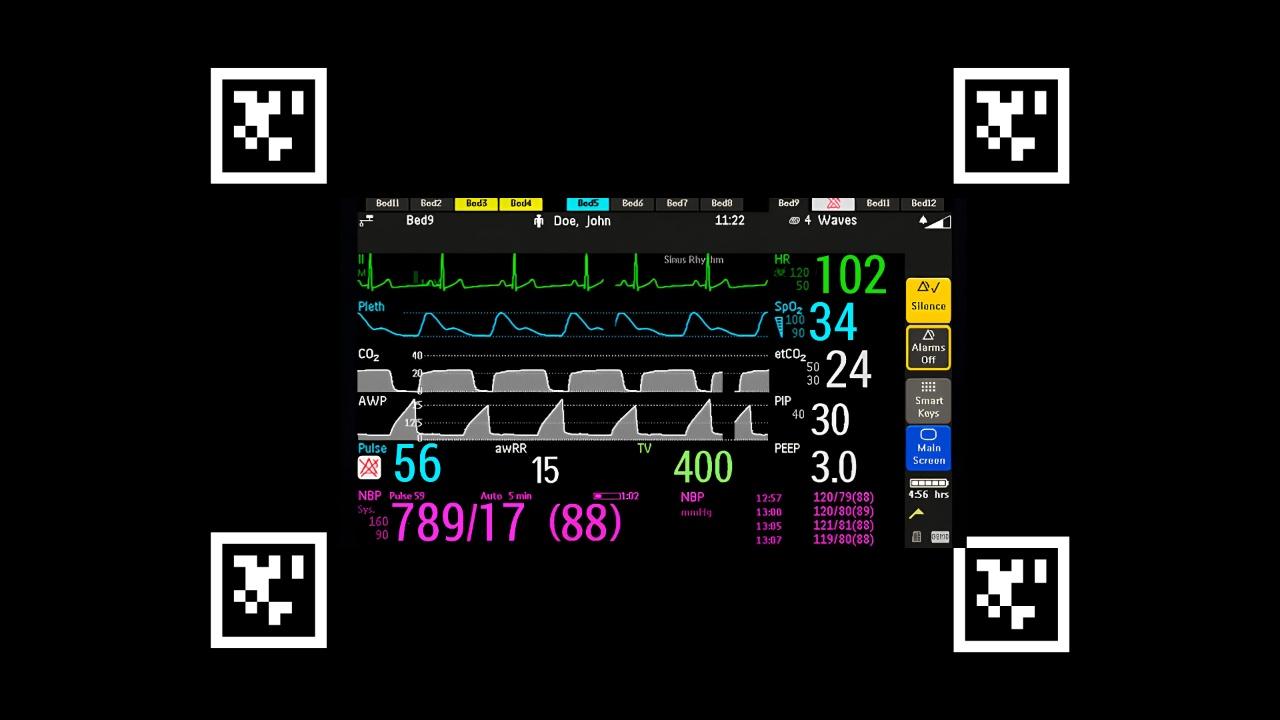
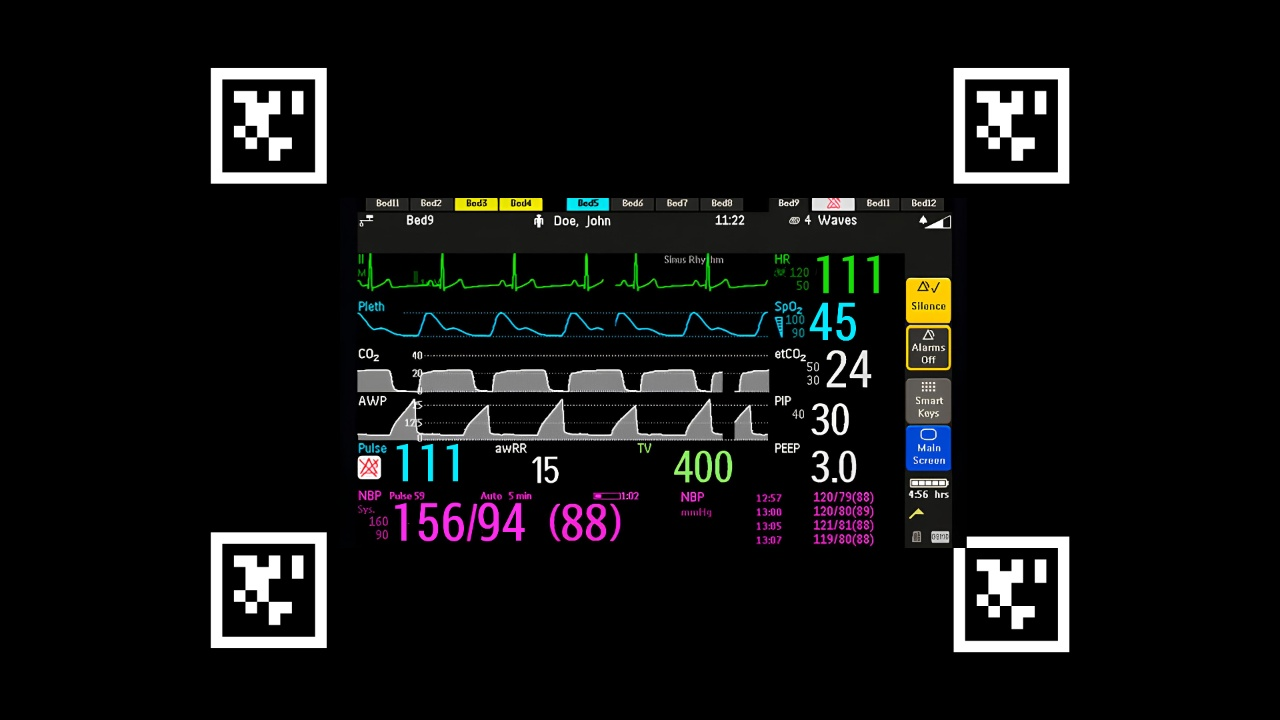
add keras

Changed region(s): [[0.625, 0.3361, 0.6875, 0.4889], [0.3125, 0.6722, 0.4062, 0.7639], [0.3125, 0.6111, 0.375, 0.6722]]

diff --git a/merge_all.py b/merge_all.py
@@ -1,0 +1,229 @@
+import cv2
+import numpy as np
+from pupil_apriltags import Detector
+import matplotlib.pyplot as plt
+import easyocr
+from paddleocr import PaddleOCR
+import keras_ocr
+from collections import Counter
+
+# Initialize AprilTag detector
+at_detector = Detector(
+    families="tag36h11",
+    nthreads=4,
+    quad_decimate=1.0,
+    quad_sigma=0.0,
+    refine_edges=1,
+    decode_sharpening=0.25,
+    debug=0
+)
+
+# Initialize OCR readers
+easy_reader = easyocr.Reader(['en'], gpu=False)
+pad_ocr = PaddleOCR(use_angle_cls=True, lang='en', use_gpu=False)
+keras_pipeline = keras_ocr.pipeline.Pipeline()
+
+# Open webcam
+cap = cv2.VideoCapture(0)
+if not cap.isOpened():
+    print("Error: Could not open camera.")
+    exit()
+
+cap.set(cv2.CAP_PROP_AUTO_EXPOSURE, 0.75)
+
+# Create matplotlib window
+plt.ion()
+fig = plt.figure(figsize=(20, 10))
+ax1 = plt.subplot2grid((2, 4), (0, 0), colspan=2)
+ax2 = plt.subplot2grid((2, 4), (0, 2), colspan=2)
+ax3 = plt.subplot2grid((2, 4), (1, 0))
+ax4 = plt.subplot2grid((2, 4), (1, 1))
+ax5 = plt.subplot2grid((2, 4), (1, 2))
+ax6 = plt.subplot2grid((2, 4), (1, 3))
+axes = [ax3, ax4, ax5, ax6]
+
+def sort_corners(corners):
+    center = np.mean(corners, axis=0)
+    angles = np.arctan2(corners[:, 1] - center[1], corners[:, 0] - center[0])
+    sorted_indices = np.argsort(angles)
+    return corners[sorted_indices]
+
+def process_roi(image, x1, y1, x2, y2):
+    roi = image[y1:y2, x1:x2]
+    roi_resized = cv2.resize(roi, (250, 125))
+    gray = cv2.cvtColor(roi_resized, cv2.COLOR_BGR2GRAY)
+    clahe = cv2.createCLAHE(clipLimit=2.0, tileGridSize=(8, 8))
+    contrast = clahe.apply(gray)
+    threshold = cv2.threshold(contrast, 0, 255, cv2.THRESH_BINARY | cv2.THRESH_OTSU)[1]
+    
+    # EasyOCR
+    try:
+        easy_result = easy_reader.readtext(threshold, detail=0)
+        easy_text = "".join([char for char in " ".join(easy_result) if char.isdigit()]).strip()
+    except Exception as e:
+        print(f"EasyOCR error: {e}")
+        easy_text = ""
+
+    # PaddleOCR
+    try:
+        pad_result = pad_ocr.ocr(roi_resized, cls=True)
+        pad_text = "".join([char for char in pad_result[0][0][1][0] if char.isdigit()]) if pad_result[0] else ""
+    except Exception as e:
+        print(f"PaddleOCR error: {e}")
+        pad_text = ""
+        
+    # Keras-OCR
+    try:
+        keras_result = keras_pipeline.recognize([roi_resized])
+        keras_text = "".join([char for char in keras_result[0][0][0] if char.isdigit()])
+    except Exception as e:
+        print(f"Keras-OCR error: {e}")
+        keras_text = ""
+    
+    return threshold, easy_text, pad_text, keras_text
+
+# Updated regions of interest for vital signs
+roi_positions = [
+    {'pulse': [1400, 276, 1610, 400]},
+    {'spo2': [1390, 400, 1540, 504]},
+    {'Dia': [318, 869, 518, 971]},
+    {'Sys': [545, 865, 688, 970]}
+]
+
+# Initialize dictionaries to store vital signs
+vital_signs_history = {key: {'easy': [], 'paddle': [], 'keras': []} for item in roi_positions for key in item.keys()}
+
+while True:
+    ret, frame = cap.read()
+    if not ret:
+        print("Cannot read from webcam")
+        break
+
+    gray = cv2.cvtColor(frame, cv2.COLOR_BGR2GRAY)
+    tags = at_detector.detect(gray)
+
+    pts_src_temp = []
+    for tag in tags:
+        if tag.tag_id == 0:
+            corners = tag.corners
+            for i in range(4):
+                pt1 = (int(corners[i][0]), int(corners[i][1]))
+                pt2 = (int(corners[(i + 1) % 4][0]), int(corners[(i + 1) % 4][1]))
+                cv2.line(frame, pt1, pt2, (0, 255, 0), 2)
+            cv2.putText(frame, f'ID: {tag.tag_id}', (int(corners[0][0]), int(corners[0][1]) - 10),
+                        cv2.FONT_HERSHEY_SIMPLEX, 1, (0, 255, 0), 2)
+            center = np.mean(corners, axis=0)
+            pts_src_temp.append(center)
+
+    # Clear previous output
+    for ax in [ax1, ax2, ax3, ax4, ax5, ax6]:
+        ax.clear()
+
+    # Display original frame
+    ax1.imshow(cv2.cvtColor(frame, cv2.COLOR_BGR2RGB))
+    ax1.set_title('Original Frame')
+    ax1.axis('off')
+
+    if len(pts_src_temp) >= 4:
+        pts_src_array = np.array(pts_src_temp[:4], dtype='float32')
+        pts_src_array = sort_corners(pts_src_array)
+        pts_dst = np.array([
+            [0, 0],
+            [1920 - 1, 0],
+            [1920 - 1, 1080 - 1],
+            [0, 1080 - 1]
+        ], dtype='float32')
+
+        matrix = cv2.getPerspectiveTransform(pts_src_array, pts_dst)
+        warped_image = cv2.warpPerspective(frame, matrix, (1920, 1080))
+
+        # Process ROIs and detect vital signs
+        vital_signs = {}
+        for i, item in enumerate(roi_positions):
+            for key, value in item.items():
+                roi_image, easy_text, pad_text, keras_text = process_roi(warped_image, value[0], value[1], value[2], value[3])
+                vital_signs[key] = f"Easy: {easy_text}, Paddle: {pad_text}, Keras: {keras_text}"
+                
+                # Store detected values
+                if len(vital_signs_history[key]['easy']) < 20:
+                    vital_signs_history[key]['easy'].append(easy_text)
+                if len(vital_signs_history[key]['paddle']) < 20:
+                    vital_signs_history[key]['paddle'].append(pad_text)
+                if len(vital_signs_history[key]['keras']) < 20:
+                    vital_signs_history[key]['keras'].append(keras_text)
+                
+                # Display ROI
+                axes[i].imshow(roi_image, cmap='gray')
+                axes[i].set_title(f'{key}: E:{easy_text} P:{pad_text} K:{keras_text} ({len(vital_signs_history[key]["easy"])}/20)')
+                axes[i].axis('off')
+
+        # Display warped image
+        ax2.imshow(cv2.cvtColor(warped_image, cv2.COLOR_BGR2RGB))
+        ax2.set_title('Warped Image')
+        ax2.axis('off')
+
+        # Display detected vital signs as text
+        plt.figtext(0.5, 0.02, f"Detected Vital Signs: {vital_signs}", ha="center", fontsize=12,
+                    bbox={"facecolor":"white", "alpha":0.5, "pad":5})
+    else:
+        ax2.text(0.5, 0.5, 'Waiting for 4 AprilTags', ha='center', va='center', transform=ax2.transAxes)
+        ax2.axis('off')
+        for ax in axes:
+            ax.text(0.5, 0.5, 'No ROI', ha='center', va='center', transform=ax.transAxes)
+            ax.axis('off')
+
+    plt.tight_layout()
+    plt.draw()
+    plt.pause(0.001)
+
+    # Check if all vital signs have 20 readings from all OCR systems
+    if all(len(values['easy']) >= 20 and len(values['paddle']) >= 20 and len(values['keras']) >= 20 for values in vital_signs_history.values()):
+        break
+
+    if plt.waitforbuttonpress(0.001):
+        break
+
+cap.release()
+plt.close(fig)
+
+# Calculate and display results for each vital sign
+print("\nFinal Results:")
+for key, values in vital_signs_history.items():
+    combined_values = values['easy'] + values['paddle'] + values['keras']
+    if combined_values:
+        mode = Counter(combined_values).most_common(1)[0][0]
+        print(f"\n{key}:")
+        print(f"Mode (considered as correct value): {mode}")
+        print("All 60 readings:")
+        print("EasyOCR readings:", values['easy'])
+        print("PaddleOCR readings:", values['paddle'])
+        print("Keras-OCR readings:", values['keras'])
+        
+        # Calculate accuracy
+        easy_correct = sum(1 for v in values['easy'] if v == mode)
+        paddle_correct = sum(1 for v in values['paddle'] if v == mode)
+        keras_correct = sum(1 for v in values['keras'] if v == mode)
+        
+        easy_accuracy = (easy_correct / 20) * 100
+        paddle_accuracy = (paddle_correct / 20) * 100
+        keras_accuracy = (keras_correct / 20) * 100
+        
+        print(f"EasyOCR Accuracy: {easy_accuracy:.2f}%")
+        print(f"PaddleOCR Accuracy: {paddle_accuracy:.2f}%")
+        print(f"Keras-OCR Accuracy: {keras_accuracy:.2f}%")
+    else:
+        print(f"{key}: No readings")
+
+# Calculate overall accuracy
+total_easy_correct = sum(sum(1 for v in values['easy'] if v == Counter(values['easy'] + values['paddle'] + values['keras']).most_common(1)[0][0]) for values in vital_signs_history.values())
+total_paddle_correct = sum(sum(1 for v in values['paddle'] if v == Counter(values['easy'] + values['paddle'] + values['keras']).most_common(1)[0][0]) for values in vital_signs_history.values())
+total_keras_correct = sum(sum(1 for v in values['keras'] if v == Counter(values['easy'] + values['paddle'] + values['keras']).most_common(1)[0][0]) for values in vital_signs_history.values())
+
+total_easy_accuracy = (total_easy_correct / (20 * len(vital_signs_history))) * 100
+total_paddle_accuracy = (total_paddle_correct / (20 * len(vital_signs_history))) * 100
+total_keras_accuracy = (total_keras_correct / (20 * len(vital_signs_history))) * 100
+
+print("\nOverall Accuracy:")
+print(f"EasyOCR: {total_easy_accuracy:.2f}%")
+print(f"PaddleOCR: {total_paddle_accuracy:.2f}%")
+print(f"Keras-OCR: {total_keras_accuracy:.2f}%")

diff --git a/addnum.py b/addnum.py
@@ -53,7 +53,7 @@ def add_numbers_to_image(input_image_path, numbers, positions, font_path, font_s
 
 # ตัวอย่างการใช้งาน
 input_image = "mx400_clear.jpg"
-numbers_to_add = [102, 34, 56, 789, 17]  # ตัวเลขตัวอย่าง ปรับตามต้องการ
+numbers_to_add = [111, 45, 111, 156, 94]  # ตัวเลขตัวอย่าง ปรับตามต้องการ
 positions = [(1545, 150), (1530, 305), (170, 770), (165, 965), (445, 965)]  # ตำแหน่งตัวอย่าง ปรับตามต้องการ
 font_sizes = [175, 175, 175, 175, 175]  # ขนาดฟอนต์ตัวอย่าง ปรับตามต้องการ
 text_colors = [(24, 221, 9), (3, 235, 254), (3, 235, 254), (252, 44, 237), (252, 44, 237)]  # สีตัวอย่าง ปรับตามต้องการ (สีแดง, สีเขียว, สีน้ำเงิน, สีเหลือง)
